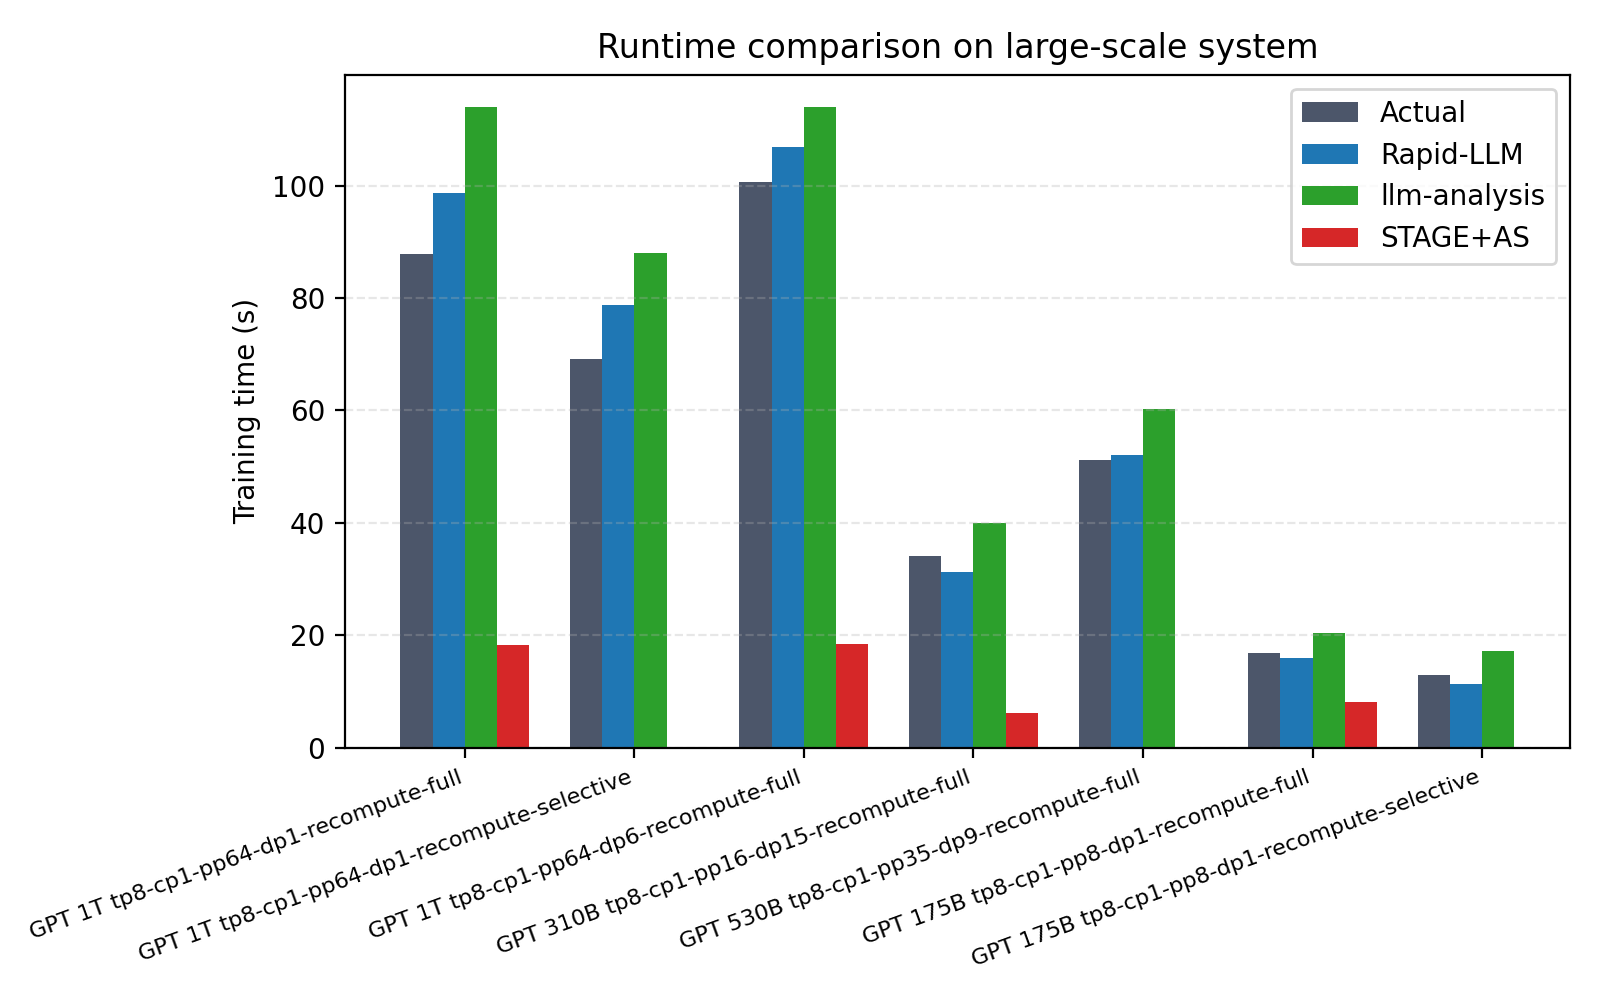
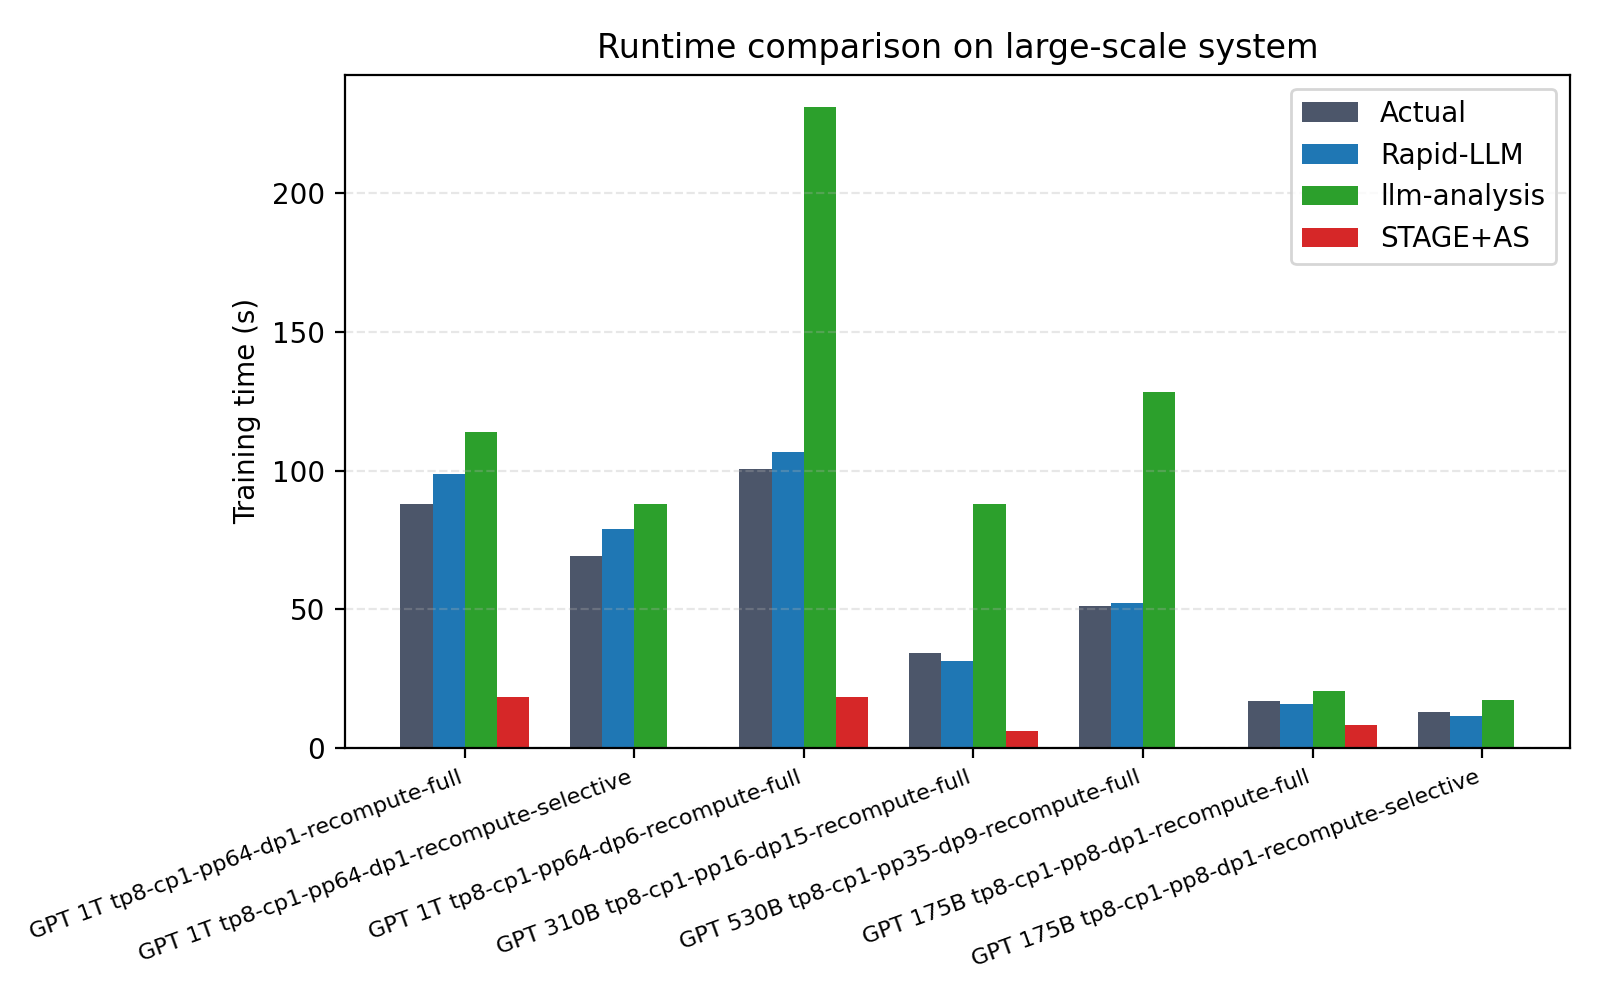
llm-analysis baseline rerun STOCK (patch retracted): 78.5% MAPE, worst 158%; dp>1 rows floored by tool's unconditional weight-allgather term

diff --git a/validation_scripts/plot_train_comparison_llmanalysis.py b/validation_scripts/plot_train_comparison_llmanalysis.py
@@ -3,10 +3,11 @@
 
 Rapid-LLM values: canonical u=0.80 extended-roofline runs
 (device_testbench/A100_SXM4_opmodel cache, key c1.000_d0.80_n0.80).
-llm-analysis values: github.com/cli99/llm-analysis @ d841e40, a100-sxm-80gb,
-w16a16e16, flops_efficiency=0.5 (its README-documented large-scale-training
-value), all other efficiencies at tool defaults, ZeRO-3 all-gather gated to
-sharded configs (see train_validation_data/llm_analysis_configs/).
+llm-analysis values: STOCK github.com/cli99/llm-analysis @ d841e40 (unmodified),
+a100-sxm-80gb, w16a16e16, flops_efficiency=0.5 (its README-documented
+large-scale-training value), all other efficiencies at tool defaults
+(see train_validation_data/llm_analysis_configs/). Its dp>1 cases are floored
+by an unconditional per-layer weight all-gather term (stock behavior).
 STAGE values: tool_seconds from train_validation_data/STAGE_data.csv (the
 original STAGE runs; 4/7 cases — 530B ran out of time/memory budget, and
 STAGE's recomputation flag is dead so selective rows are unsupported).
@@ -27,9 +28,9 @@ DISPLAY_LABELS = {"actual": "Actual", "rapid_llm": "Rapid-LLM", "llm_analysis": 
 ROWS = [
     ("GPT 1T tp8-cp1-pp64-dp1-recompute-full", 87.9, 98.70, 114.03, 18.24),
     ("GPT 1T tp8-cp1-pp64-dp1-recompute-selective", 69.1, 78.82, 87.93, None),
-    ("GPT 1T tp8-cp1-pp64-dp6-recompute-full", 100.7, 106.82, 114.03, 18.46),
-    ("GPT 310B tp8-cp1-pp16-dp15-recompute-full", 34.1, 31.26, 40.01, 6.16),
-    ("GPT 530B tp8-cp1-pp35-dp9-recompute-full", 51.2, 52.11, 60.34, None),
+    ("GPT 1T tp8-cp1-pp64-dp6-recompute-full", 100.7, 106.82, 231.17, 18.46),
+    ("GPT 310B tp8-cp1-pp16-dp15-recompute-full", 34.1, 31.26, 87.89, 6.16),
+    ("GPT 530B tp8-cp1-pp35-dp9-recompute-full", 51.2, 52.11, 128.24, None),
     ("GPT 175B tp8-cp1-pp8-dp1-recompute-full", 16.9, 15.90, 20.42, 8.13),
     ("GPT 175B tp8-cp1-pp8-dp1-recompute-selective", 12.9, 11.44, 17.24, None),
 ]
